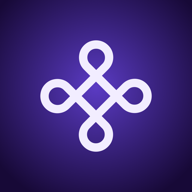
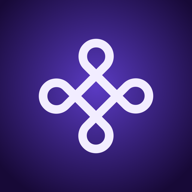
Icona: nodo a +85%

Changed region(s): [[0.1875, 0.1875, 0.8125, 0.8125]]

diff --git a/index.html b/index.html
@@ -10,8 +10,8 @@
 <meta name="apple-mobile-web-app-capable" content="yes">
 <meta name="apple-mobile-web-app-status-bar-style" content="default">
 <link rel="manifest" href="manifest.webmanifest">
-<link rel="icon" href="favicon-32.png?v=5" type="image/png">
-<link rel="apple-touch-icon" href="apple-touch-icon.png?v=5">
+<link rel="icon" href="favicon-32.png?v=6" type="image/png">
+<link rel="apple-touch-icon" href="apple-touch-icon.png?v=6">
 
 <!--
   Spell sul telefono: premi Registra, parla, il pensiero va nel repository privato e il Mac lo trascrive.

diff --git a/sw.js b/sw.js
@@ -1,5 +1,5 @@
 // Spell: il guscio dell'app resta disponibile offline; i pensieri li tiene data.js (IndexedDB).
-const C = 'spell-v5';
+const C = 'spell-v6';
 const SHELL = ['./', 'index.html', 'icon-192.png', 'favicon-32.png'];
 self.addEventListener('install', e => { self.skipWaiting(); e.waitUntil(caches.open(C).then(c => c.addAll(SHELL)).catch(() => {})); });
 self.addEventListener('activate', e => e.waitUntil(caches.keys().then(k => Promise.all(k.filter(x => x !== C).map(x => caches.delete(x)))).then(() => self.clients.claim())));
